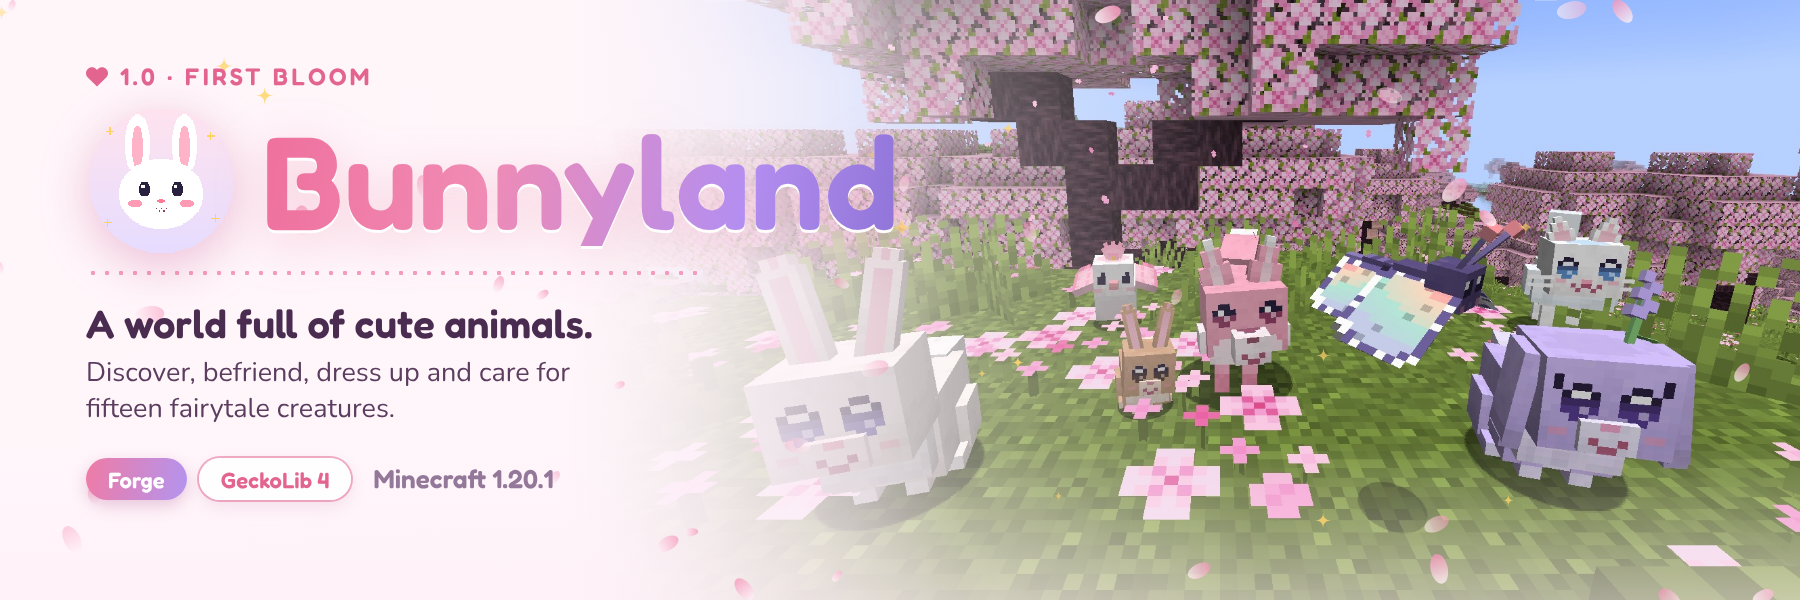
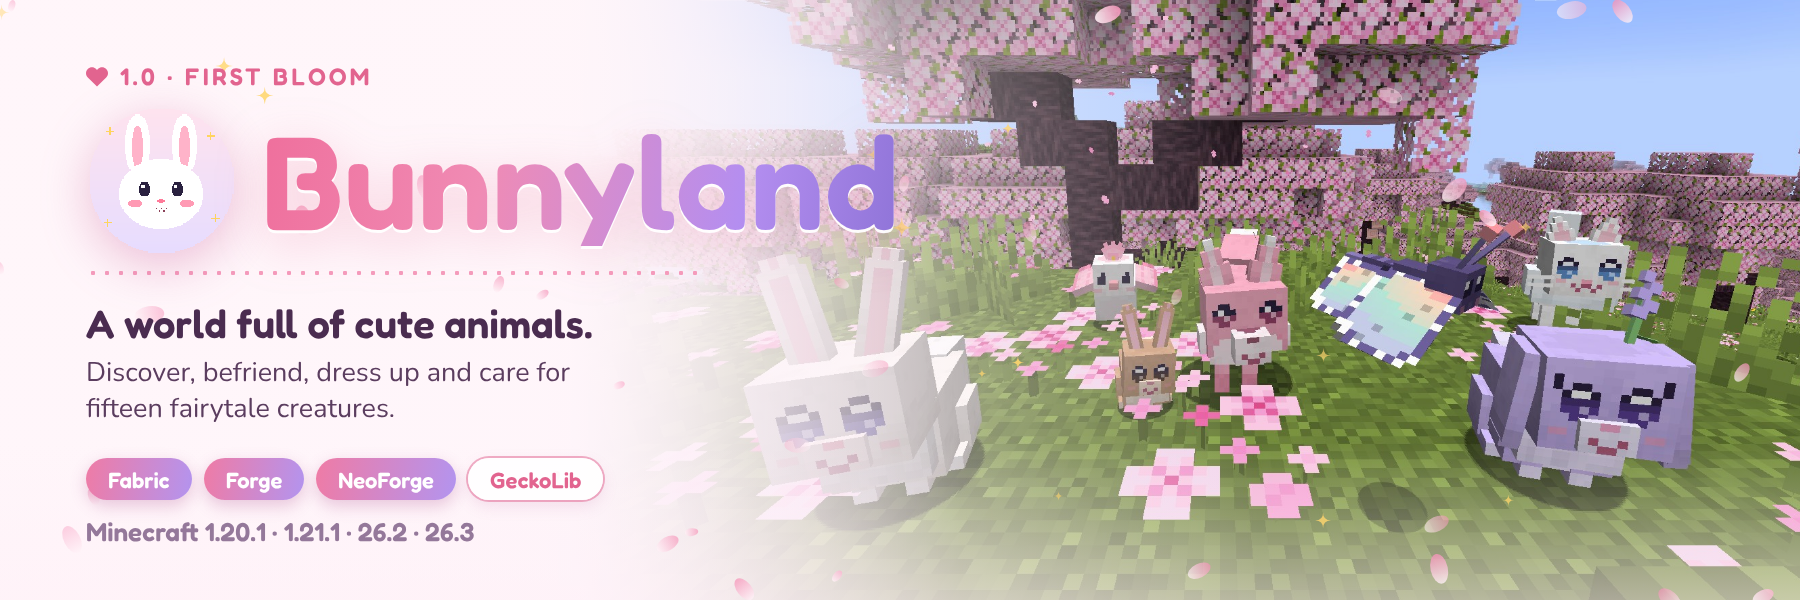
Document the multiloader builds; list every version and loader in the listing
Patch notes, README and CurseForge description now cover Forge/Fabric 1.20.1
and NeoForge/Fabric 1.21.1, 26.2 and 26.3. The banner lists all loaders and
versions. Dev client runs accept -PclientArgs.

Claude-Session: https://claude.ai/code/session_01MzSaW6iWZ6afEB5dcUFpUY

Changed region(s): [[0.0622, 0.75, 0.3422, 0.84], [0.0311, 0.87, 0.28, 0.9]]

diff --git a/README.md b/README.md
@@ -1,6 +1,6 @@
 # Bunnyland 🐰
 
-*A Sugarplum Studios mod for Minecraft Java 1.20.1 (Forge 47.x + GeckoLib 4)*
+*A Sugarplum Studios mod for Minecraft Java 1.20.1, 1.21.1, 26.2 and 26.3, on Fabric, Forge and NeoForge (with GeckoLib)*
 
 A world full of cute animals. Fifteen fairytale creatures live in Minecraft's meadows, flower forests, cherry
 groves, snowy biomes, forests and rivers. Discover them, befriend them with their favourite treats, dress them up,
@@ -14,9 +14,15 @@ sounds, natural spawning and its own behaviour.
 
 ## Installing
 
-1. Install **Minecraft Forge 1.20.1** (47.1 or newer).
-2. Put **GeckoLib 4** for Forge 1.20.1 (4.4.9 or newer, e.g. `geckolib-forge-1.20.1-4.8.4.jar`) in your `mods` folder.
-3. Put `bunnyland-1.20.1-1.0.0.jar` (from `build/libs/`) in your `mods` folder.
+| Minecraft | Loaders | Java | Also install |
+|---|---|---|---|
+| 1.20.1 | Fabric, Forge (47.1+) | 17+ | GeckoLib 4 (4.4.9+); Fabric API on Fabric |
+| 1.21.1 | Fabric, NeoForge | 21+ | GeckoLib 4 (4.8.4+); Fabric API on Fabric |
+| 26.2 | Fabric, NeoForge | 25+ | GeckoLib 5 (5.5.5+); Fabric API on Fabric |
+| 26.3 | Fabric, NeoForge | 25+ | GeckoLib 5 (5.5.7+); Fabric API on Fabric |
+
+Put the jar for your loader and version (`bunnyland-<loader>-<minecraft>-1.0.0.jar`) and GeckoLib in your `mods`
+folder.
 
 The mod is needed on both the server and every client. On your first join you are given a **Pet Journal**.
 
@@ -217,22 +223,32 @@ Useful NBT: `Variant` (index, common variants first), `Happiness` (0–100), `Co
 
 ## For developers
 
+The repository holds one MultiLoader workspace per Minecraft version, laid out like the other Sugarplum/NightBeam
+mods: `1.20.1/` (common, fabric, forge), `1.21.1/`, `26.2/` and `26.3/` (common, fabric, neoforge). `common` holds all
+gameplay, rendering and data; the loader modules are thin layers (registration, networking, events, spawn rules,
+biome spawns, client registration) behind `platform.IPlatform`.
+
 ```
-./gradlew build                 # builds build/libs/bunnyland-1.20.1-1.0.0.jar
-./gradlew runClient             # play in a dev client
-./gradlew runGameTestServer     # 17 headless GameTests (taming, breeding, cosmetics, carrier, bowls, journal, spawns...)
-./gradlew runSnapshots          # builds a showcase world, saves run/screenshots/bunnyland_*.png and quits
-python tools/generate_assets.py # regenerates models, textures, animations, item art, data and lang
-python tools/generate_sounds.py # re-synthesises every sound (needs ffmpeg on PATH)
+cd 1.20.1 && ./gradlew build              # fabric/build/libs and forge/build/libs (Java 17)
+cd 1.21.1 && ./gradlew build              # Java 21
+cd 26.2 && ./gradlew build                # Java 25 (26.3 likewise)
+./gradlew :fabric:runClient               # play in a dev client (also :forge: / :neoforge:)
+./gradlew :forge:runGameTestServer        # 1.20.1: 17 headless GameTests (also :neoforge: on 1.21.1)
+./gradlew :forge:runSnapshots             # 1.20.1: builds a showcase world, saves screenshots and quits
+python tools/generate_assets.py           # regenerates models, textures, animations, item art, data and lang
+python tools/generate_sounds.py           # re-synthesises every sound (needs ffmpeg on PATH)
+python tools/port_data.py 1.21.1          # derives 1.21.1/26.2/26.3 resources from the 1.20.1 ones
 ```
 
-Everything in `src/main/resources` except `META-INF` and `pack.mcmeta` is generated by the Python tools (standard
-library only). Models are written as GeckoLib/Bedrock `.geo.json` with per-face UVs. Textures are painted
-procedurally per material, with decals for faces and markings. Animations are baked from code into keyframes.
-Sounds are synthesised from scratch and encoded to OGG Vorbis with ffmpeg.
+The Python tools write `1.20.1/common/src/main/resources` (standard library only). Models are written as
+GeckoLib/Bedrock `.geo.json` with per-face UVs. Textures are painted procedurally per material, with decals for faces
+and markings. Animations are baked from code into keyframes. Sounds are synthesised from scratch and encoded to OGG
+Vorbis with ffmpeg. `tools/port_data.py` then rewrites that data for newer versions (1.21 folder names, recipe and
+advancement formats, item model definitions, GeckoLib 5 asset folders, spawn egg textures).
 
 Code layout (`com.sugarplumstudios.bunnyland`): `creature` (species table, accessories, moods), `entity` (the shared
 `BunnylandAnimal` base, `FlyingCreature`, one class per creature) and `entity.ai` (napping, owner-following for any
 movement type, pet beds, bowls, zoomies, block visits), `item`, `block`, `journal` (world-saved per-player journal +
-discovery), `network`, `world` (config-driven biome modifier, spawn placement rules), `client` (GeckoLib model and
-renderer with dye tinting and a glow layer, journal screen, toasts, particles, the snapshot harness) and `gametest`.
+discovery), `network`, `world` (spawn placement rules), `config` (a small TOML config shared by every loader),
+`platform` (the loader interface), `client` (GeckoLib model and renderer with dye tinting and a glow layer, journal
+screen, toasts, particles). The Forge module also holds `gametest` and the snapshot harness.

diff --git a/marketing/README.md b/marketing/README.md
@@ -16,10 +16,11 @@ The description leads with the pitch, then the creatures, where to find them (wi
 
 ## Adding a Minecraft version
 
-The supported versions are listed in exactly two places:
+The supported versions are listed in these places:
 
-1. `VERSIONS` at the top of [`source/render.cjs`](source/render.cjs). Add one line, for example `{ minecraft: '1.21.1', loaders: ['NeoForge'] },`. The banner's loader pills and version line are built from it. Then rerun the script for `banner`.
-2. The table under **Downloads & Compatibility** in `curseforge/description.md`. Add one row.
+1. `VERSIONS` at the top of [`source/render.cjs`](source/render.cjs). Add one line, for example `{ minecraft: '26.4', loaders: ['NeoForge', 'Fabric'] },`. The banner's loader pills and version line are built from it. Then rerun the script for `banner`.
+2. The table under **Downloads & Compatibility** in `curseforge/description.md`. Add one row per loader.
+3. The FAQ answers **Do I need GeckoLib?** and **Is there a Fabric or NeoForge version?** in the same file.
 
 No other copy or artwork names a Minecraft version. A new release name or number goes in `RELEASE` in `render.cjs` and in the banner's alt text on the first line of the description.
 
@@ -46,7 +47,7 @@ No other copy or artwork names a Minecraft version. A new release name or number
 
 ### How the screenshots were captured
 
-Every screenshot is an unedited capture of the **1.20.1 Forge development client** (`./gradlew runClient`, Bunnyland 1.0.0, GeckoLib 4.8.4, default configuration) with software rendering (Mesa llvmpipe) at 1920×1080, GUI scale 3 and Fancy graphics. The client joined a dev server (`./gradlew runServer`) and was driven over RCON and xdotool; [`source/devrun.sh`](source/devrun.sh) starts both under Xvfb, [`source/session.py`](source/session.py) talks to them, and [`source/stage.py`](source/stage.py) holds the staging helpers (ground probes, frozen creatures, camera placement, bursts).
+Every screenshot is an unedited capture of the **1.20.1 Forge development client** (the creatures look the same on every loader and version) (`./gradlew runClient`, Bunnyland 1.0.0, GeckoLib 4.8.4, default configuration) with software rendering (Mesa llvmpipe) at 1920×1080, GUI scale 3 and Fancy graphics. The client joined a dev server (`./gradlew runServer`) and was driven over RCON and xdotool; [`source/devrun.sh`](source/devrun.sh) starts both under Xvfb, [`source/session.py`](source/session.py) talks to them, and [`source/stage.py`](source/stage.py) holds the staging helpers (ground probes, frozen creatures, camera placement, bursts).
 
 - **World:** a fresh world, "showcase", seed `sugarplum-meadows` (`server.properties`), in Peaceful with the day cycle and weather off. The scenes are in the world's own generated terrain: a cherry grove at about −80 −1056, the snowy taiga and frozen lake at spawn, and the river and forest at about 240 −150.
 - **Changes for the shots:** grass in front of the camera was cleared so it does not hide the creatures. The care shot places the four pet beds and three feeding bowls; the forest shot places a beehive, two berry bushes and a few flowers.

diff --git a/marketing/curseforge/description.md b/marketing/curseforge/description.md
@@ -188,14 +188,21 @@ Spawn biomes come from the biome tags `bunnyland:spawns/<creature>`, and treats 
 | Minecraft | Loader | Java | Also install |
 | --- | --- | --- | --- |
 | 1.20.1 | Forge 47.1 or newer | 17+ | [GeckoLib 4](https://www.curseforge.com/minecraft/mc-mods/geckolib) (4.4.9 or newer) |
+| 1.20.1 | Fabric (Loader 0.16+, [Fabric API](https://www.curseforge.com/minecraft/mc-mods/fabric-api)) | 17+ | [GeckoLib 4](https://www.curseforge.com/minecraft/mc-mods/geckolib) (4.4.9 or newer) |
+| 1.21.1 | NeoForge 21.1 or newer | 21+ | [GeckoLib 4](https://www.curseforge.com/minecraft/mc-mods/geckolib) (4.8.4 or newer) |
+| 1.21.1 | Fabric ([Fabric API](https://www.curseforge.com/minecraft/mc-mods/fabric-api)) | 21+ | [GeckoLib 4](https://www.curseforge.com/minecraft/mc-mods/geckolib) (4.8.4 or newer) |
+| 26.2 | NeoForge 26.2 | 25+ | [GeckoLib 5](https://www.curseforge.com/minecraft/mc-mods/geckolib) (5.5.5 or newer) |
+| 26.2 | Fabric ([Fabric API](https://www.curseforge.com/minecraft/mc-mods/fabric-api)) | 25+ | [GeckoLib 5](https://www.curseforge.com/minecraft/mc-mods/geckolib) (5.5.5 or newer) |
+| 26.3 | NeoForge 26.3 | 25+ | [GeckoLib 5](https://www.curseforge.com/minecraft/mc-mods/geckolib) (5.5.7 or newer) |
+| 26.3 | Fabric ([Fabric API](https://www.curseforge.com/minecraft/mc-mods/fabric-api)) | 25+ | [GeckoLib 5](https://www.curseforge.com/minecraft/mc-mods/geckolib) (5.5.7 or newer) |
 
-- Install Bunnyland and GeckoLib on **both the server and every client**.
+- Install Bunnyland and GeckoLib (plus Fabric API on Fabric) on **both the server and every client**.
 - Bunnyland is a mod. It does not work as a Paper, Spigot or Folia plugin.
 
 ![Questions](https://raw.githubusercontent.com/MeherBenSalem/Bunnyland/main/marketing/images/header-faq.png)
 
 **Do I need GeckoLib?**
-Yes. Bunnyland's models and animations run on GeckoLib 4 for Forge 1.20.1, version 4.4.9 or newer.
+Yes. Bunnyland's models and animations run on GeckoLib: GeckoLib 4 on 1.20.1 and 1.21.1, GeckoLib 5 on 26.2 and 26.3. The table above lists the minimum version for each.
 
 **Can my pet die or run away if I forget about it?**
 No. Happiness never drops below 10, and pets never leave. A lonely pet just won't breed until you give it some love.
@@ -213,7 +220,7 @@ They only empty full beehives and eat ripe berries, both respect the `mobGriefin
 Yes, with a data pack: add the biome to the `bunnyland:spawns/<creature>` biome tag.
 
 **Is there a Fabric or NeoForge version?**
-Bunnyland is for Forge 1.20.1.
+Yes. Bunnyland runs on Forge and Fabric for 1.20.1, and on NeoForge and Fabric for 1.21.1, 26.2 and 26.3. Every version has the same creatures, items and config.
 
 ![Gallery](https://raw.githubusercontent.com/MeherBenSalem/Bunnyland/main/marketing/images/header-gallery.png)
 

diff --git a/patchnotes/1.0.0.md b/patchnotes/1.0.0.md
@@ -1,0 +1,23 @@
+## Bunnyland 1.0.0 "First Bloom"
+
+The first release.
+
+- **Fifteen fairytale creatures**: Cotton, Strawberry, Moon, Lavender and Snowball Bunnies, the Blossom Fox, Cloud Kitty, Strawberry Mouse, Honey Bear, Moon Deer, Pastel Axolotl, Tiny Swan, Rainbow Butterfly, Cherry Blossom Bird and Dreamy Hamster, each with its own GeckoLib model, animations, sounds and behaviour.
+- **Natural spawning** in meadows, flower forests, cherry groves, snowy biomes, forests, rivers and swamps. Day creatures sleep at night, night creatures nap by day.
+- **Befriending** with eight favourite treats; sit, follow, petting, naming, leashing and the Pet Carrier.
+- **73 variants**, 25 of them rare and born only by breeding (8%, doubled when both parents are overjoyed).
+- **Dress-up**: dyeable Pet Collars and Pet Bows, plus the Flower Crown, Tiny Top Hat, Party Hat, Star Clip, Heart Glasses and Cozy Scarf.
+- **Pet care**: happiness and moods, Feeding Bowls, Pet Beds in four colours, and three toys.
+- **The Pet Journal**: discovery, befriending and rare-variant tracking, with a page for every creature.
+- Six advancements and a commented config (`bunnyland-common.toml`, `bunnyland-client.toml`).
+
+- **Multiloader**: one release for Forge and Fabric on 1.20.1, and NeoForge and Fabric on 1.21.1, 26.2 and 26.3.
+
+| Minecraft | Loaders | Also needs |
+|---|---|---|
+| 1.20.1 | Forge 47.1+, Fabric (Loader 0.16+, Fabric API) | GeckoLib 4 (4.4.9+) |
+| 1.21.1 | NeoForge 21.1+, Fabric (Fabric API) | GeckoLib 4 (4.8.4+) |
+| 26.2 | NeoForge 26.2, Fabric (Fabric API) | GeckoLib 5 (5.5.5+) |
+| 26.3 | NeoForge 26.3, Fabric (Fabric API) | GeckoLib 5 (5.5.7+) |
+
+Install on both the server and every client.
